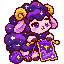
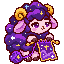
밤하늘 양: 오른눈 다시 그림 (확인 대기)

Changed region(s): [[0.6875, 0.3438, 0.7812, 0.4062], [0.6875, 0.25, 0.75, 0.3125]]

diff --git a/img/codex/sheep/anim_preview.html b/img/codex/sheep/anim_preview.html
@@ -1,1 +1,1 @@
[2 lines of base64/hex data omitted]

diff --git a/개발일지/2026-11-26/이미지.md b/개발일지/2026-11-26/이미지.md
@@ -194,3 +194,7 @@
 ## [디자인] 밤하늘 양: 큰 2번, 시선 고치고 대기 8칸 (확인 대기)
 - 의도: "첫번째. 왜 시야가 위를 봐?" / "2안으로 할게 일단."
 - 큰 2번 양 확정. 오른눈이 왼눈보다 4칸 높아 위를 보는 것처럼 보임 → 오른눈 3칸 내리고 코·입을 두 눈 사이로. 64×64에 맞춰 털 한 줄 뺌. 대기 8칸(도트 직접): 숨쉬기(머리 1칸 내려앉음), 별 반짝임, 눈 깜빡임 1번. img/p/ev_sheep.png, ev_sheep_anim.png(512×64). 오른쪽을 봄(UI에서 좌우 반전). 확인 뒤 UI에 넘김.
+
+## [디자인] 밤하늘 양: 오른눈 다시 (확인 대기)
+- 의도: "양이 이상한대 오른쪽눈인가?"
+- 앞서 눈만 3칸 내려서 속눈썹 없는 작은 덩어리가 됐고, 원래 자리에 분홍 틈이 남아 눈이 하나 더 있는 것처럼 보임. 오른눈을 왼눈과 같은 구성(속눈썹·흰 반짝·아래 밝은 보라)으로 다시 찍고 틈은 털로 메움. ev_sheep.png·_anim 다시. 확인 대기.
